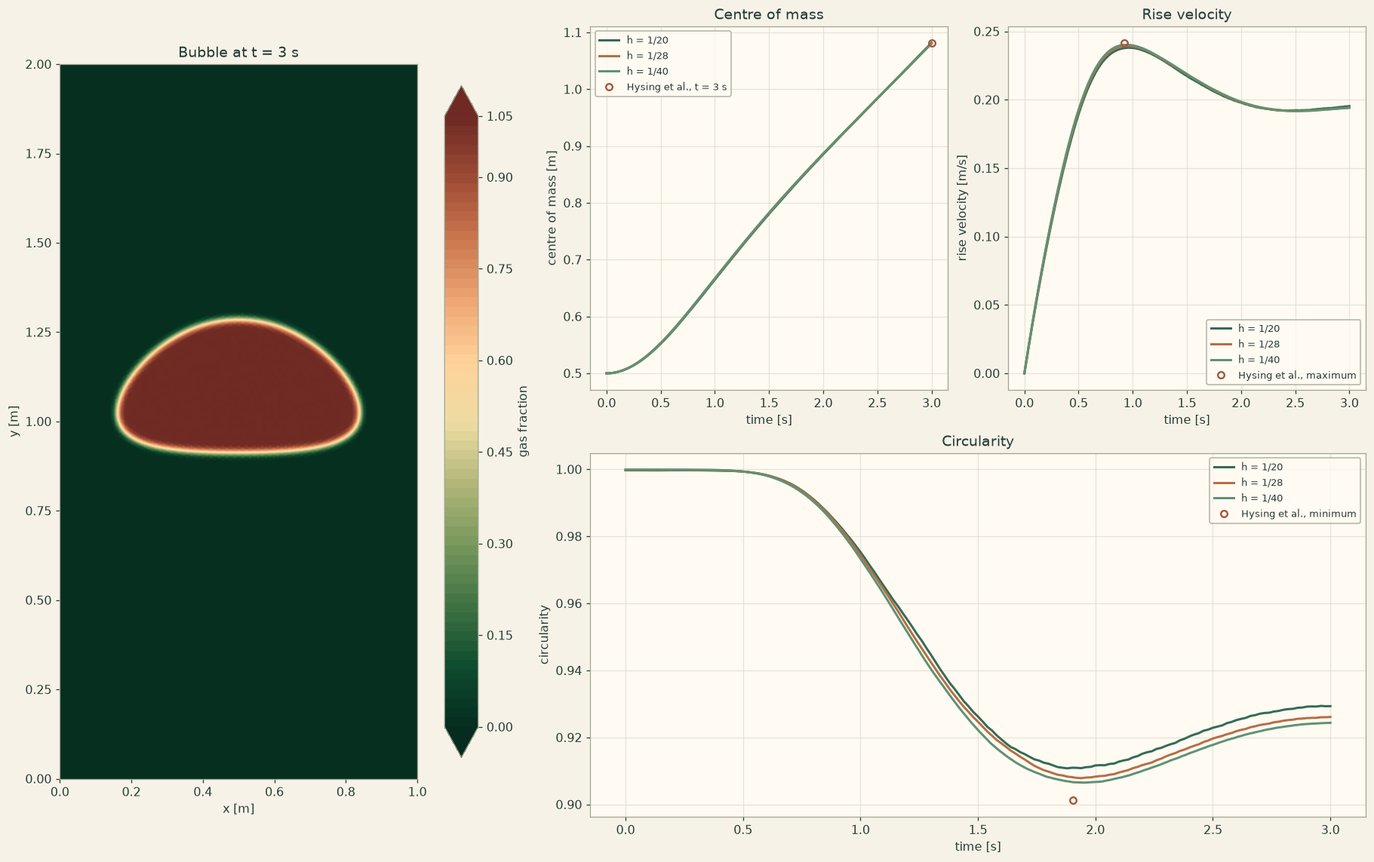
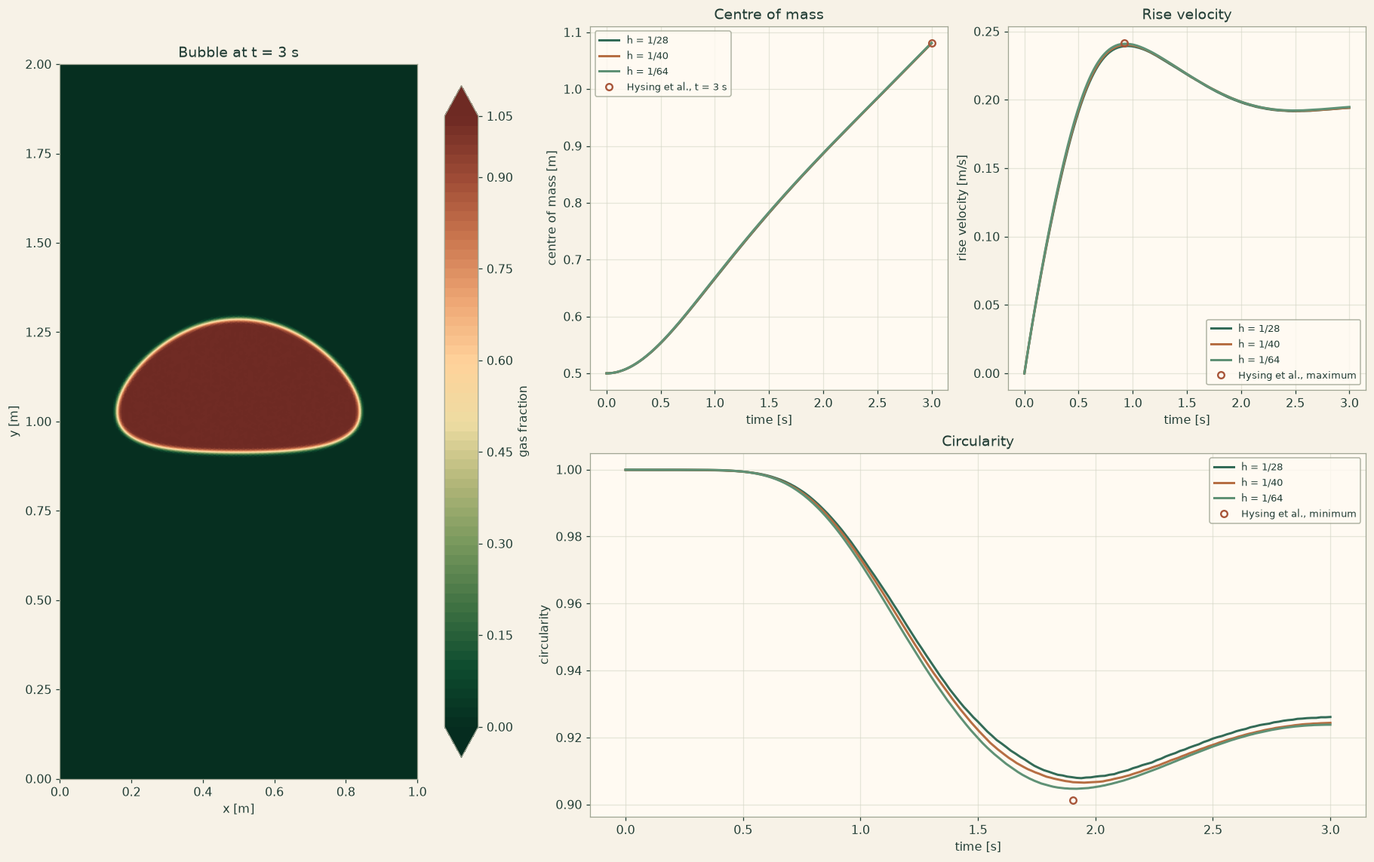
Update the rising bubble benchmark on 18,988 triangles

diff --git a/examples/notebooks/rising_bubble_benchmark.html b/examples/notebooks/rising_bubble_benchmark.html
@@ -22,7 +22,7 @@
 <div class="layout">
 <details class="menu"><summary>Menu</summary><nav class="side" aria-label="Documentation"><a class="" href="../../index.html">Overview</a><a class="" href="../../quickstart.html">Quickstart</a><p class="group">Examples</p><a class="" href="../../examples/index.html">Example library</a><a class="" href="../../examples/method-swap.html">One model, five discretizations</a><a class="" href="../../examples/cantilever.html">A 3D cantilever</a><a class="" href="../../examples/custom-equation.html">Your own equation</a><p class="group">Guide</p><p class="part">Start here</p><a class="" href="../../guide/how-to-use-this-guide.html"><span class="num"></span> How to use this guide</a><p class="part">Part I · From model to notebook</p><a class="" href="../../guide/1-set-up-the-notebook.html"><span class="num">1</span> Set up the notebook</a><a class="" href="../../guide/2-transient-radiation-and-vibration.html"><span class="num">2</span> Transient radiation and vibration</a><a class="" href="../../guide/3-three-spatial-studies.html"><span class="num">3</span> Three spatial studies</a><a class="" href="../../guide/4-read-visualize-and-export-results.html"><span class="num">4</span> Read, visualize and export results</a><p class="part">Part II · Physics model selection</p><a class="" href="../../guide/5-build-a-first-case-in-each-physics-package/index.html"><span class="num">5</span> Build a first case in each physics package</a><a class="" href="../../guide/6-worked-physics-and-service-recipes/index.html"><span class="num">6</span> Worked physics and service recipes</a><p class="part">Part III · Select and combine numerical methods</p><a class="" href="../../guide/7-numerical-configuration-and-spatial-operators.html"><span class="num">7</span> Numerical configuration and spatial operators</a><a class="" href="../../guide/8-solvers-time-integration-and-coupled-fields.html"><span class="num">8</span> Solvers, time integration and coupled fields</a><a class="" href="../../guide/9-worked-numerical-comparisons/index.html"><span class="num">9</span> Worked numerical comparisons</a><a class="" href="../../guide/10-executable-numerical-recipes/index.html"><span class="num">10</span> Executable numerical recipes</a><a class="" href="../../guide/11-define-and-solve-your-own-equation.html"><span class="num">11</span> Define and solve your own equation</a><a class="" href="../../guide/12-diagnose-a-notebook-result.html"><span class="num">12</span> Diagnose a notebook result</a><a class="" href="../../guide/13-coverage-and-navigation-by-symbol/index.html"><span class="num">13</span> Coverage and navigation by symbol</a><p class="part">API reference</p><a class="" href="../../reference/a-physics-api-reference/index.html"><span class="num">A</span> Physics API reference</a><a class="" href="../../reference/b-numerical-api-reference/index.html"><span class="num">B</span> Numerical API reference</a><a class="" href="../../reference/c-exposed-operator-and-service-namespaces/index.html"><span class="num">C</span> Exposed operator and service namespaces</a><p class="group">Teaching</p><a class="" href="../../teaching/index.html">For instructors</a><a class="" href="../../teaching/course.html">A 14-week lab course</a><a class="" href="../../teaching/exercises.html">Exercise sheets</a><p class="group">Trust and terms</p><a class="" href="../../verification.html">Verification</a><a class="" href="../../plans.html">Plans and licence</a></nav></details>
 <div class="side-wrap"><nav class="side" aria-label="Documentation"><a class="" href="../../index.html">Overview</a><a class="" href="../../quickstart.html">Quickstart</a><p class="group">Examples</p><a class="" href="../../examples/index.html">Example library</a><a class="" href="../../examples/method-swap.html">One model, five discretizations</a><a class="" href="../../examples/cantilever.html">A 3D cantilever</a><a class="" href="../../examples/custom-equation.html">Your own equation</a><p class="group">Guide</p><p class="part">Start here</p><a class="" href="../../guide/how-to-use-this-guide.html"><span class="num"></span> How to use this guide</a><p class="part">Part I · From model to notebook</p><a class="" href="../../guide/1-set-up-the-notebook.html"><span class="num">1</span> Set up the notebook</a><a class="" href="../../guide/2-transient-radiation-and-vibration.html"><span class="num">2</span> Transient radiation and vibration</a><a class="" href="../../guide/3-three-spatial-studies.html"><span class="num">3</span> Three spatial studies</a><a class="" href="../../guide/4-read-visualize-and-export-results.html"><span class="num">4</span> Read, visualize and export results</a><p class="part">Part II · Physics model selection</p><a class="" href="../../guide/5-build-a-first-case-in-each-physics-package/index.html"><span class="num">5</span> Build a first case in each physics package</a><a class="" href="../../guide/6-worked-physics-and-service-recipes/index.html"><span class="num">6</span> Worked physics and service recipes</a><p class="part">Part III · Select and combine numerical methods</p><a class="" href="../../guide/7-numerical-configuration-and-spatial-operators.html"><span class="num">7</span> Numerical configuration and spatial operators</a><a class="" href="../../guide/8-solvers-time-integration-and-coupled-fields.html"><span class="num">8</span> Solvers, time integration and coupled fields</a><a class="" href="../../guide/9-worked-numerical-comparisons/index.html"><span class="num">9</span> Worked numerical comparisons</a><a class="" href="../../guide/10-executable-numerical-recipes/index.html"><span class="num">10</span> Executable numerical recipes</a><a class="" href="../../guide/11-define-and-solve-your-own-equation.html"><span class="num">11</span> Define and solve your own equation</a><a class="" href="../../guide/12-diagnose-a-notebook-result.html"><span class="num">12</span> Diagnose a notebook result</a><a class="" href="../../guide/13-coverage-and-navigation-by-symbol/index.html"><span class="num">13</span> Coverage and navigation by symbol</a><p class="part">API reference</p><a class="" href="../../reference/a-physics-api-reference/index.html"><span class="num">A</span> Physics API reference</a><a class="" href="../../reference/b-numerical-api-reference/index.html"><span class="num">B</span> Numerical API reference</a><a class="" href="../../reference/c-exposed-operator-and-service-namespaces/index.html"><span class="num">C</span> Exposed operator and service namespaces</a><p class="group">Teaching</p><a class="" href="../../teaching/index.html">For instructors</a><a class="" href="../../teaching/course.html">A 14-week lab course</a><a class="" href="../../teaching/exercises.html">Exercise sheets</a><p class="group">Trust and terms</p><a class="" href="../../verification.html">Verification</a><a class="" href="../../plans.html">Plans and licence</a></nav></div>
-<main id="content"><p class="crumbs"><a href="../../index.html">Docs</a> › <a href="../../examples/index.html">Examples</a> › Rising bubble benchmark</p><p class="eyebrow">Two-phase flow · 2D</p><h1>Rising bubble benchmark</h1><p class="lead">A gas bubble rises through a liquid ten times as dense, flattens and develops a dimpled rear: the quantitative two-phase benchmark of Hysing et al. on three meshes.</p><div class="chips"><span>STEP import</span><span>Level set</span><span>Density jump</span><span>Hysing benchmark</span></div><p class="note"><strong>Run locally with OneSimulation.</strong> The example downloads are free. Running them requires an activated runtime. Runtime Alpha 0.2.1a8 · CPython 3.13 on macOS (Apple Silicon), Ubuntu 22.04 (x86-64), and Windows x64. <a href="../../quickstart.html#need">Installation and activation</a> · <a href="../../plans.html">View pilot plans</a>. <a href="../../verification.html#scope">Scope of the reference checks</a>.</p><div class="button-row"><a class="button" href="../../notebooks/rising_bubble_benchmark.ipynb" download>Download the notebook (.ipynb)</a><a class="button light" href="../../notebooks/rising_bubble_benchmark.py" download>Download the script (.py)</a><a class="button light" href="../../notebooks/rising_bubble_benchmark.step" download>Download the geometry (.step)</a><a class="button light" href="../../notebooks/rising_bubble_benchmark_geometry.py" download>Download the geometry script (.py)</a></div><figure><a href="../../figures/library/rising_bubble_benchmark.png" aria-label="Open result plot for Rising bubble benchmark at full size" style="display:inline-block;max-width:100%;cursor:zoom-in"><img loading="lazy" src="../../figures/library/rising_bubble_benchmark.png" alt="Rising bubble benchmark"></a><figcaption>Rising bubble benchmark. Run the notebook to produce its own figures.</figcaption></figure><h2 id="what">What it computes</h2><p>OneSimulation cuts the liquid column from a STEP part and solves the two-phase Navier-Stokes equations with Taylor-Hood elements; a level set with geometric redistancing carries the interface, density and viscosity jump across it, and surface tension enters as a semi-implicit continuum surface stress. The script that builds the STEP file comes with the notebook.</p><h2 id="checks">What it checks</h2><p>On the finest mesh (h = 1/40) the maximum rise velocity 0.2402 m/s, the minimum circularity 0.9065 and the centre of mass 1.0806 m at t = 3 s differ from the benchmark values 0.2417, 0.9013 and 1.0813 by -0.62 %, +0.58 % and -0.07 %, the times of the extrema by +2.5 %; the bubble volume stays constant to round-off.</p><h2 id="geometry">Geometry</h2><p>The notebook starts at the import of the CAD file <a href="../../notebooks/rising_bubble_benchmark.step" download><code>rising_bubble_benchmark.step</code></a>: STEP (AP242), readable by any CAD program, with the names of the faces that the boundary conditions use. Put it next to the notebook.</p><figure><a href="../../figures/library/rising_bubble_benchmark_geometry.png" aria-label="Open geometry for Rising bubble benchmark at full size" style="display:inline-block;max-width:100%;cursor:zoom-in"><img loading="lazy" src="../../figures/library/rising_bubble_benchmark_geometry.png" alt="Geometry of the example: Rising bubble benchmark"></a><figcaption>The geometry as the notebook reads it from the STEP file and draws it.</figcaption></figure><div class="button-row"><a class="button light" href="../../notebooks/rising_bubble_benchmark.step" download>Download the geometry (.step)</a><a class="button light" href="../../notebooks/rising_bubble_benchmark_geometry.py" download>Download the geometry script (.py)</a></div><h3 id="geometry-script">The geometry script</h3><p>The script <a href="../../notebooks/rising_bubble_benchmark_geometry.py" download><code>rising_bubble_benchmark_geometry.py</code></a> builds the geometry with the CAD objects of OneSimulation and writes the file. Change a dimension there, run it, and run the notebook again.</p><div class="notebook"><div class="nb-code"><pre class="code" data-lang="python"><code><span class="sd">&quot;&quot;&quot;Geometry of the OneSimulation example &quot;Rising bubble benchmark&quot;.</span>
+<main id="content"><p class="crumbs"><a href="../../index.html">Docs</a> › <a href="../../examples/index.html">Examples</a> › Rising bubble benchmark</p><p class="eyebrow">Two-phase flow · 2D</p><h1>Rising bubble benchmark</h1><p class="lead">A gas bubble rises through a liquid ten times as dense, flattens and develops a dimpled rear: the quantitative two-phase benchmark of Hysing et al. on three meshes.</p><div class="chips"><span>STEP import</span><span>Level set</span><span>Density jump</span><span>Hysing benchmark</span></div><p class="note"><strong>Run locally with OneSimulation.</strong> The example downloads are free. Running them requires an activated runtime. Runtime Alpha 0.2.1a8 · CPython 3.13 on macOS (Apple Silicon), Ubuntu 22.04 (x86-64), and Windows x64. <a href="../../quickstart.html#need">Installation and activation</a> · <a href="../../plans.html">View pilot plans</a>. <a href="../../verification.html#scope">Scope of the reference checks</a>.</p><div class="button-row"><a class="button" href="../../notebooks/rising_bubble_benchmark.ipynb" download>Download the notebook (.ipynb)</a><a class="button light" href="../../notebooks/rising_bubble_benchmark.py" download>Download the script (.py)</a><a class="button light" href="../../notebooks/rising_bubble_benchmark.step" download>Download the geometry (.step)</a><a class="button light" href="../../notebooks/rising_bubble_benchmark_geometry.py" download>Download the geometry script (.py)</a></div><figure><a href="../../figures/library/rising_bubble_benchmark.png" aria-label="Open result plot for Rising bubble benchmark at full size" style="display:inline-block;max-width:100%;cursor:zoom-in"><img loading="lazy" src="../../figures/library/rising_bubble_benchmark.png" alt="Rising bubble benchmark"></a><figcaption>Rising bubble benchmark. Run the notebook to produce its own figures.</figcaption></figure><h2 id="what">What it computes</h2><p>OneSimulation cuts the liquid column from a STEP part and solves the two-phase Navier-Stokes equations with Taylor-Hood elements; a level set with geometric redistancing carries the interface, density and viscosity jump across it, and surface tension enters as a semi-implicit continuum surface stress. The script that builds the STEP file comes with the notebook.</p><h2 id="checks">What it checks</h2><p>At h = 1/64 the 9,687-node mesh gives a maximum rise speed of 0.2410 m/s, a minimum circularity of 0.9047 and a final centroid height of 1.0815 m. Their benchmark deviations are −0.28%, +0.38% and +0.02%. Both extremum times agree within 1%, and the relative volume change is 2.2 × 10⁻¹⁶.</p><h2 id="geometry">Geometry</h2><p>Save the STEP file <a href="../../notebooks/rising_bubble_benchmark.step" download><code>rising_bubble_benchmark.step</code></a> next to the notebook before running it.</p><figure><a href="../../figures/library/rising_bubble_benchmark_geometry.png" aria-label="Open geometry for Rising bubble benchmark at full size" style="display:inline-block;max-width:100%;cursor:zoom-in"><img loading="lazy" src="../../figures/library/rising_bubble_benchmark_geometry.png" alt="Geometry of the example: Rising bubble benchmark"></a><figcaption>Geometry used by the notebook.</figcaption></figure><div class="button-row"><a class="button light" href="../../notebooks/rising_bubble_benchmark.step" download>Download the geometry (.step)</a><a class="button light" href="../../notebooks/rising_bubble_benchmark_geometry.py" download>Download the geometry script (.py)</a></div><h3 id="geometry-script">The geometry script</h3><p>The script <a href="../../notebooks/rising_bubble_benchmark_geometry.py" download><code>rising_bubble_benchmark_geometry.py</code></a> builds the geometry with the CAD objects of OneSimulation and writes the file. Change a dimension there, run it, and run the notebook again.</p><div class="notebook"><div class="nb-code"><pre class="code" data-lang="python"><code><span class="sd">&quot;&quot;&quot;Geometry of the OneSimulation example &quot;Rising bubble benchmark&quot;.</span>
 
 <span class="sd">Builds the liquid column of the rising-bubble benchmark, 1 m wide and 2 m high, as a slab 0.5 m deep</span>
 <span class="sd">with the CAD objects of OneSimulation and writes rising_bubble_benchmark.step. The faces are named</span>
@@ -54,11 +54,14 @@
 <span class="kn">from</span><span class="w"> </span><span class="nn">onesim.visualization</span><span class="w"> </span><span class="kn">import</span> <span class="n">plots</span><span class="p">,</span> <span class="n">theme</span>
 
 <span class="n">theme</span><span class="o">.</span><span class="n">set</span><span class="p">()</span></code></pre></div><div class="nb-md"><h4>Geometry and meshes</h4>
-<p>The cross-section at half depth keeps the face names. Three uniform meshes of quadratic triangles with 1/20, 1/28 and 1/40 m target size form the mesh study.</p></div><div class="nb-code"><pre class="code" data-lang="python"><code><span class="n">part</span> <span class="o">=</span> <span class="n">load</span><span class="p">(</span><span class="s2">&quot;rising_bubble_benchmark.step&quot;</span><span class="p">)</span>
+<p>The cross-section at half depth keeps the face names. Three uniform meshes of quadratic triangles with 1/28, 1/40 and 1/64 m target size form the mesh study.</p></div><div class="nb-code"><pre class="code" data-lang="python"><code><span class="n">part</span> <span class="o">=</span> <span class="n">load</span><span class="p">(</span><span class="s2">&quot;rising_bubble_benchmark.step&quot;</span><span class="p">)</span>
 <span class="n">column</span> <span class="o">=</span> <span class="n">part</span><span class="o">.</span><span class="n">section</span><span class="p">((</span><span class="mi">0</span><span class="p">,</span> <span class="mi">0</span><span class="p">,</span> <span class="mi">1</span><span class="p">),</span> <span class="n">origin</span><span class="o">=</span><span class="p">(</span><span class="mi">0</span><span class="p">,</span> <span class="mi">0</span><span class="p">,</span> <span class="n">part</span><span class="o">.</span><span class="n">size</span><span class="p">[</span><span class="mi">2</span><span class="p">]</span> <span class="o">/</span> <span class="mi">2</span><span class="p">))</span>
 <span class="n">faces</span> <span class="o">=</span> <span class="n">column</span><span class="o">.</span><span class="n">boundaries</span>
-<span class="n">sizes</span> <span class="o">=</span> <span class="p">(</span><span class="mi">1</span> <span class="o">/</span> <span class="mi">20</span><span class="p">,</span> <span class="mi">1</span> <span class="o">/</span> <span class="mi">28</span><span class="p">,</span> <span class="mi">1</span> <span class="o">/</span> <span class="mi">40</span><span class="p">)</span>
+<span class="n">sizes</span> <span class="o">=</span> <span class="p">(</span><span class="mi">1</span> <span class="o">/</span> <span class="mi">28</span><span class="p">,</span> <span class="mi">1</span> <span class="o">/</span> <span class="mi">40</span><span class="p">,</span> <span class="mi">1</span> <span class="o">/</span> <span class="mi">64</span><span class="p">)</span>
 <span class="n">meshes</span> <span class="o">=</span> <span class="p">{</span><span class="n">size</span><span class="p">:</span> <span class="n">TriangularMesher</span><span class="p">(</span><span class="n">target_size</span><span class="o">=</span><span class="n">size</span><span class="p">)</span><span class="o">.</span><span class="n">generate</span><span class="p">(</span><span class="n">column</span><span class="p">)</span> <span class="k">for</span> <span class="n">size</span> <span class="ow">in</span> <span class="n">sizes</span><span class="p">}</span>
+
+<span class="k">for</span> <span class="n">h</span><span class="p">,</span> <span class="n">mesh</span> <span class="ow">in</span> <span class="n">meshes</span><span class="o">.</span><span class="n">items</span><span class="p">():</span>
+    <span class="nb">print</span><span class="p">(</span><span class="sa">f</span><span class="s2">&quot;h = 1/</span><span class="si">{</span><span class="nb">round</span><span class="p">(</span><span class="mi">1</span><span class="o">/</span><span class="n">h</span><span class="p">)</span><span class="si">}</span><span class="s2">: </span><span class="si">{</span><span class="nb">len</span><span class="p">(</span><span class="n">mesh</span><span class="o">.</span><span class="n">coordinates</span><span class="p">)</span><span class="si">:</span><span class="s2">,</span><span class="si">}</span><span class="s2"> nodes, </span><span class="si">{</span><span class="n">mesh</span><span class="o">.</span><span class="n">cell_count</span><span class="si">:</span><span class="s2">,</span><span class="si">}</span><span class="s2"> triangles&quot;</span><span class="p">)</span>
 
 <span class="n">fig</span> <span class="o">=</span> <span class="n">plots</span><span class="o">.</span><span class="n">figure</span><span class="p">(</span><span class="mi">1</span><span class="p">,</span> <span class="mi">2</span><span class="p">,</span> <span class="n">size</span><span class="o">=</span><span class="p">(</span><span class="mi">11</span><span class="p">,</span> <span class="mi">7</span><span class="p">))</span>
 <span class="n">plots</span><span class="o">.</span><span class="n">geometry</span><span class="p">(</span><span class="n">part</span><span class="p">,</span> <span class="n">selection</span><span class="o">=</span><span class="p">{</span><span class="s2">&quot;no slip&quot;</span><span class="p">:</span> <span class="n">part</span><span class="o">.</span><span class="n">boundaries</span><span class="o">.</span><span class="n">floor</span> <span class="o">|</span> <span class="n">part</span><span class="o">.</span><span class="n">boundaries</span><span class="o">.</span><span class="n">lid</span><span class="p">,</span> <span class="s2">&quot;free slip&quot;</span><span class="p">:</span> <span class="n">part</span><span class="o">.</span><span class="n">boundaries</span><span class="o">.</span><span class="n">sides</span><span class="p">},</span>
@@ -76,7 +79,7 @@
 <span class="n">numerics</span> <span class="o">=</span> <span class="n">Numerics</span><span class="p">(</span><span class="n">spatial</span><span class="o">=</span><span class="n">FiniteElement</span><span class="p">(</span><span class="n">element</span><span class="o">=</span><span class="n">TaylorHood</span><span class="p">()),</span> <span class="n">time_integrator</span><span class="o">=</span><span class="n">BDF</span><span class="p">(</span><span class="n">order</span><span class="o">=</span><span class="mi">2</span><span class="p">),</span> <span class="n">linear_solver</span><span class="o">=</span><span class="n">SparseDirect</span><span class="p">())</span>
 <span class="n">keep</span> <span class="o">=</span> <span class="n">ExecutionOptions</span><span class="p">(</span><span class="n">result_retention</span><span class="o">=</span><span class="n">ResultRetentionPolicy</span><span class="p">(</span><span class="n">mode</span><span class="o">=</span><span class="s2">&quot;stride&quot;</span><span class="p">,</span> <span class="n">stride</span><span class="o">=</span><span class="mi">2</span><span class="p">))</span>
 <span class="n">results</span> <span class="o">=</span> <span class="p">{</span><span class="n">size</span><span class="p">:</span> <span class="n">Simulation</span><span class="p">(</span><span class="n">problem</span><span class="o">=</span><span class="n">problem</span><span class="p">,</span> <span class="n">mesh</span><span class="o">=</span><span class="n">meshes</span><span class="p">[</span><span class="n">size</span><span class="p">],</span> <span class="n">numerics</span><span class="o">=</span><span class="n">numerics</span><span class="p">)</span><span class="o">.</span><span class="n">run</span><span class="p">(</span>
-    <span class="n">start_time</span><span class="o">=</span><span class="mf">0.0</span><span class="p">,</span> <span class="n">end_time</span><span class="o">=</span><span class="mf">3.0</span><span class="p">,</span> <span class="n">time_step</span><span class="o">=</span><span class="mf">0.01</span> <span class="k">if</span> <span class="n">size</span> <span class="o">&gt;</span> <span class="mi">1</span> <span class="o">/</span> <span class="mi">30</span> <span class="k">else</span> <span class="mf">0.008</span><span class="p">,</span> <span class="n">execution_options</span><span class="o">=</span><span class="n">keep</span><span class="p">)</span> <span class="k">for</span> <span class="n">size</span> <span class="ow">in</span> <span class="n">sizes</span><span class="p">}</span></code></pre></div><div class="nb-md"><h4>Results</h4>
+    <span class="n">start_time</span><span class="o">=</span><span class="mf">0.0</span><span class="p">,</span> <span class="n">end_time</span><span class="o">=</span><span class="mf">3.0</span><span class="p">,</span> <span class="n">time_step</span><span class="o">=</span><span class="nb">min</span><span class="p">(</span><span class="mf">0.01</span><span class="p">,</span> <span class="mf">0.32</span> <span class="o">*</span> <span class="n">size</span><span class="p">),</span> <span class="n">execution_options</span><span class="o">=</span><span class="n">keep</span><span class="p">)</span> <span class="k">for</span> <span class="n">size</span> <span class="ow">in</span> <span class="n">sizes</span><span class="p">}</span></code></pre></div><div class="nb-md"><h4>Results</h4>
 <p><code>phase_statistics</code> returns the bubble volume, centroid, mean velocity, perimeter and circularity at every saved time; the level set keeps the bubble volume to round-off.</p></div><div class="nb-code"><pre class="code" data-lang="python"><code><span class="n">statistics</span> <span class="o">=</span> <span class="p">{</span><span class="n">size</span><span class="p">:</span> <span class="n">phase_statistics</span><span class="p">(</span><span class="n">results</span><span class="p">[</span><span class="n">size</span><span class="p">],</span> <span class="n">flow</span><span class="p">)</span> <span class="k">for</span> <span class="n">size</span> <span class="ow">in</span> <span class="n">sizes</span><span class="p">}</span>
 <span class="n">reference</span> <span class="o">=</span> <span class="p">{</span><span class="s2">&quot;maximum rise velocity [m/s]&quot;</span><span class="p">:</span> <span class="mf">0.2417</span><span class="p">,</span> <span class="s2">&quot;time of maximum [s]&quot;</span><span class="p">:</span> <span class="mf">0.9213</span><span class="p">,</span> <span class="s2">&quot;minimum circularity&quot;</span><span class="p">:</span> <span class="mf">0.9013</span><span class="p">,</span>
              <span class="s2">&quot;time of minimum [s]&quot;</span><span class="p">:</span> <span class="mf">1.9041</span><span class="p">,</span> <span class="s2">&quot;centre of mass at t = 3 s [m]&quot;</span><span class="p">:</span> <span class="mf">1.0813</span><span class="p">}</span>

diff --git a/notebooks/rising_bubble_benchmark.py b/notebooks/rising_bubble_benchmark.py
@@ -54,13 +54,16 @@ theme.set()
 # ## Geometry and meshes
 #
 # The cross-section at half depth keeps the face names. Three uniform meshes of quadratic triangles
-# with 1/20, 1/28 and 1/40 m target size form the mesh study.
+# with 1/28, 1/40 and 1/64 m target size form the mesh study.
 
 part = load("rising_bubble_benchmark.step")
 column = part.section((0, 0, 1), origin=(0, 0, part.size[2] / 2))
 faces = column.boundaries
-sizes = (1 / 20, 1 / 28, 1 / 40)
+sizes = (1 / 28, 1 / 40, 1 / 64)
 meshes = {size: TriangularMesher(target_size=size).generate(column) for size in sizes}
+
+for h, mesh in meshes.items():
+    print(f"h = 1/{round(1/h)}: {len(mesh.coordinates):,} nodes, {mesh.cell_count:,} triangles")
 
 fig = plots.figure(1, 2, size=(11, 7))
 plots.geometry(part, selection={"no slip": part.boundaries.floor | part.boundaries.lid, "free slip": part.boundaries.sides},
@@ -87,7 +90,7 @@ problem = Problem(name="Rising bubble", geometry=column, physics=(flow,), bounda
 numerics = Numerics(spatial=FiniteElement(element=TaylorHood()), time_integrator=BDF(order=2), linear_solver=SparseDirect())
 keep = ExecutionOptions(result_retention=ResultRetentionPolicy(mode="stride", stride=2))
 results = {size: Simulation(problem=problem, mesh=meshes[size], numerics=numerics).run(
-    start_time=0.0, end_time=3.0, time_step=0.01 if size > 1 / 30 else 0.008, execution_options=keep) for size in sizes}
+    start_time=0.0, end_time=3.0, time_step=min(0.01, 0.32 * size), execution_options=keep) for size in sizes}
 
 # ## Results
 #
